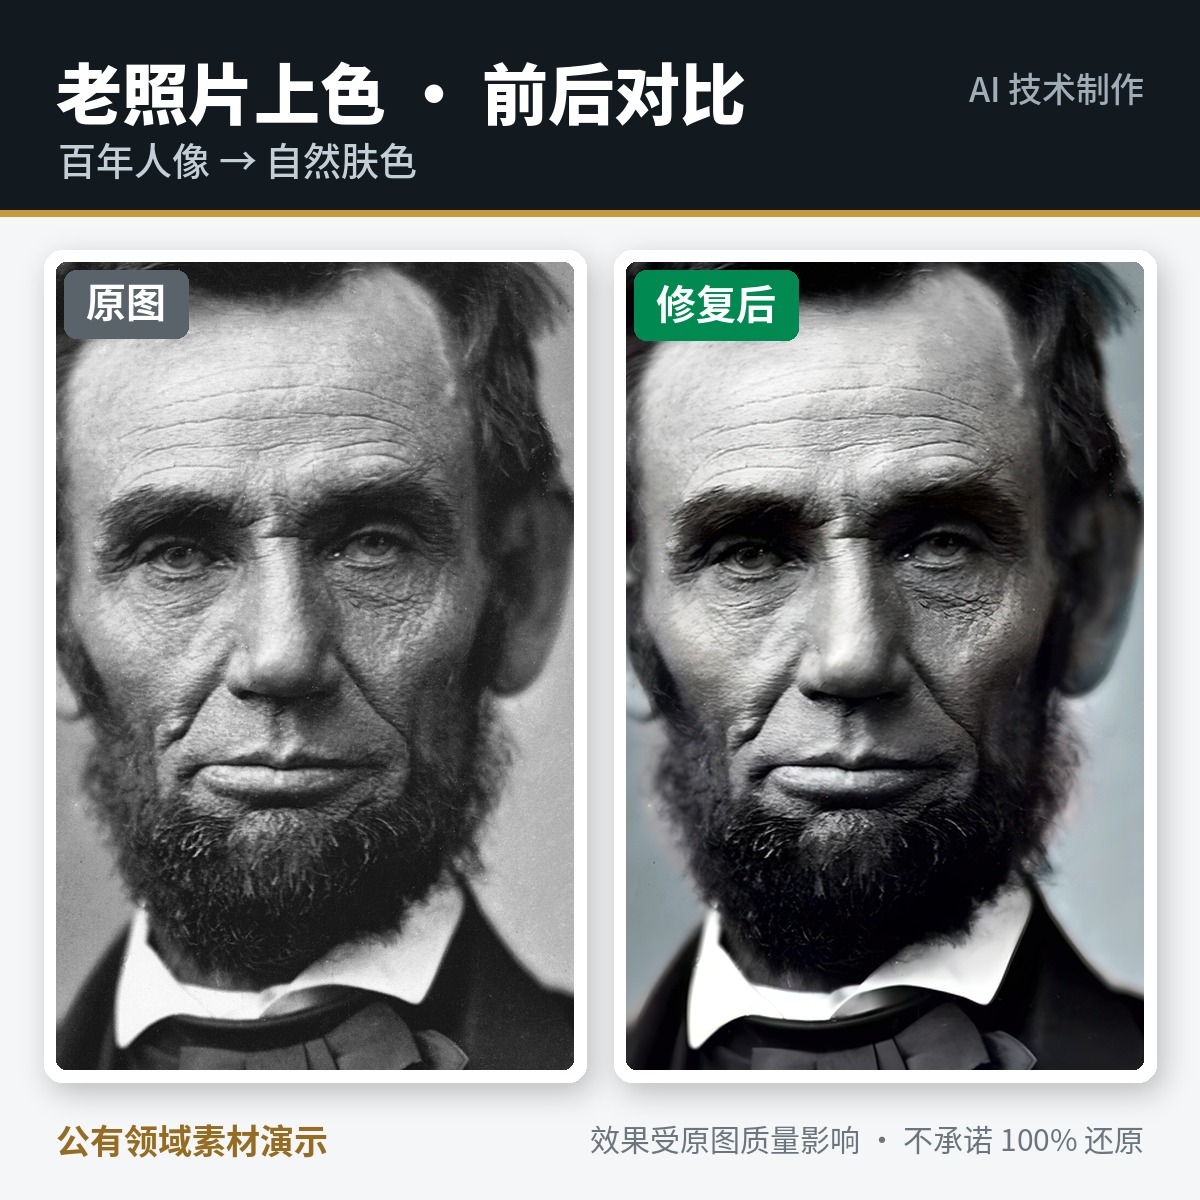
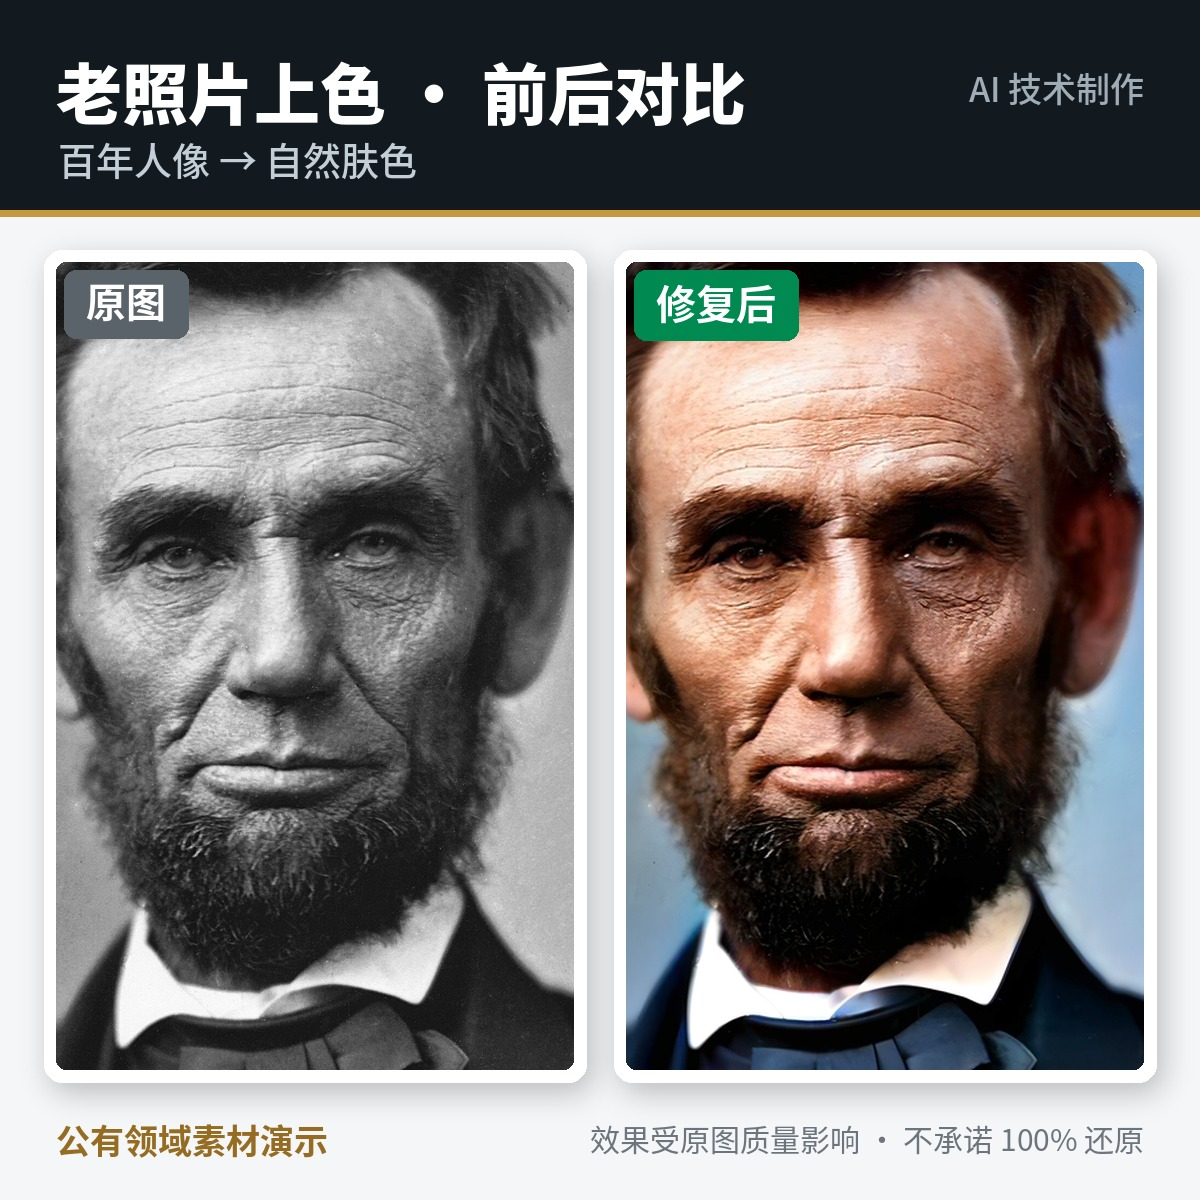
feat(photo): #224/#225 上色改用 DDColor 链路 + 重出上架物料 4 件
- retouch.py: colorize 新增 --colorizer ddcolor（DDColor-L 出色 + chroma_transfer 保 work 亮度），消除 SDXL .80 手臂/衣物蓝块串色
- #224 重出：main-01/ba-01/service-01 上色用 DDColor 干净链路；ba-04 换真实老照片(WW1 肖像 PD)破损修复(remove_damage)
- marketing.py: ba-04 → hist03_burnley_repair；service 上色面板 → hist02_lincoln_colorize
- 重出 marketing/ai-photo-上架物料-v1/ 10 件 + README/manifest(v2)

diff --git a/inference/photo/retouch.py b/inference/photo/retouch.py
@@ -15,6 +15,7 @@
 
 参数：
     --mode repair|upscale|colorize|product   （manifest 模式下为默认值）
+    --colorizer sdxl|ddcolor   colorize 出色引擎（默认 sdxl；ddcolor=#225 验证首选专用上色模型，仅 colorize 生效）
     --strength   img2img 去噪强度（<=0.9；未给则用 mode 预设：repair .25 / colorize .80 / product .35）
                  ⚠ #225 实测 colorize .80 易致手臂/衣物蓝块串色，建议 .35–.45（见 docs/photo-colorize-offset-225.md）
     --seed       随机种子（复现用）
@@ -28,6 +29,7 @@ from __future__ import annotations
 import argparse
 import hashlib
 import json
+import os
 import sys
 import time
 from pathlib import Path
@@ -397,6 +399,45 @@ def run_diffusion(pipe, images: list[Image.Image], mode: str, strength: float,
     return out, round(dt, 2)
 
 
+# ---- DDColor 专用上色模型（#225 验证结论：老照片上色首选）----
+DDCOLOR_REPO = os.environ.get("DDCOLOR_REPO", "/mnt/data/ai_workspace/DDColor")
+DDCOLOR_CKPT = os.environ.get("DDCOLOR_CKPT",
+                              "/mnt/data/ai_workspace/models/ddcolor/ddcolor_modelscope.pt")
+_ddcolor_cache = None
+
+
+def load_ddcolor(input_size: int = 512):
+    """惰性加载 DDColor-L（ImageNet 预训练）；权重/仓库路径见 DDCOLOR_CKPT/DDCOLOR_REPO。"""
+    global _ddcolor_cache
+    if _ddcolor_cache is not None:
+        return _ddcolor_cache
+    import torch
+    if DDCOLOR_REPO not in sys.path:
+        sys.path.insert(0, DDCOLOR_REPO)
+    from ddcolor import DDColor, ColorizationPipeline, build_ddcolor_model  # noqa: E402
+    dev = torch.device("cuda" if torch.cuda.is_available() else "cpu")
+    t0 = time.time()
+    model = build_ddcolor_model(DDColor, model_path=DDCOLOR_CKPT, input_size=input_size,
+                                model_size="large", device=dev)
+    _ddcolor_cache = ColorizationPipeline(model, input_size=input_size, device=dev)
+    print(f"[ddcolor] loaded in {time.time() - t0:.1f}s", flush=True)
+    return _ddcolor_cache
+
+
+def run_ddcolor(pipe, images: list[Image.Image]) -> tuple[list[Image.Image], float]:
+    """DDColor 逐张出色（自带亮度）；后续由 chroma_transfer 只取色度、保住 work 亮度。"""
+    import cv2
+    t0 = time.time()
+    outs = []
+    for im in images:
+        bgr = cv2.cvtColor(np.asarray(im.convert("RGB")), cv2.COLOR_RGB2BGR)
+        out = pipe.process(bgr)
+        outs.append(Image.fromarray(cv2.cvtColor(out, cv2.COLOR_BGR2RGB)))
+    dt = time.time() - t0
+    print(f"[ddcolor] {len(images)} img colorized {dt:.1f}s", flush=True)
+    return outs, round(dt, 2)
+
+
 # -------------------------------------------------------------------- compare
 def _font(path: str, size: int) -> ImageFont.FreeTypeFont:
     try:
@@ -477,6 +518,8 @@ def main():
     ap.add_argument("--manifest", help="cases.json：逐案例 input/mode/strength/gt")
     ap.add_argument("--output", required=True, help="输出目录（产出 <case>/{before,after,compare,meta}）")
     ap.add_argument("--mode", default="repair", choices=["repair", "upscale", "colorize", "product"])
+    ap.add_argument("--colorizer", default="sdxl", choices=["sdxl", "ddcolor"],
+                    help="colorize 出色引擎（默认 sdxl；ddcolor=#225 验证首选的专用上色模型，仅 colorize 模式生效）")
     ap.add_argument("--strength", type=float, default=None, help="img2img 去噪强度（默认按 mode）")
     ap.add_argument("--seed", type=int, default=42)
     ap.add_argument("--batch", type=int, default=1, help="同 mode 下每次送 SDXL 的图片数")
@@ -561,6 +604,7 @@ def main():
 
     # ---------- Phase B: SDXL 修复/上色（按 mode 分批） ----------
     pipe = None
+    ddpipe = None
     prepared = [m for m in metas if m["status"] == "prepared" and m["mode"] != "upscale"]
     idx = 0
     while idx < len(prepared):
@@ -577,12 +621,18 @@ def main():
             j += 1
         idx = j
         try:
-            if pipe is None:
-                pipe = load_sdxl_img2img()
-            t0 = time.time()
-            outs, dt = run_diffusion(pipe, [m["_work"] for m in grp], grp[0]["mode"],
-                                     grp[0]["strength"], grp[0]["steps"], grp[0]["seed"],
-                                     grp[0]["guidance"], grp[0].get("prompt"), grp[0].get("negative"))
+            if grp[0]["mode"] == "colorize" and args.colorizer == "ddcolor":
+                if ddpipe is None:
+                    ddpipe = load_ddcolor()
+                t0 = time.time()
+                outs, dt = run_ddcolor(ddpipe, [m["_work"] for m in grp])
+            else:
+                if pipe is None:
+                    pipe = load_sdxl_img2img()
+                t0 = time.time()
+                outs, dt = run_diffusion(pipe, [m["_work"] for m in grp], grp[0]["mode"],
+                                         grp[0]["strength"], grp[0]["steps"], grp[0]["seed"],
+                                         grp[0]["guidance"], grp[0].get("prompt"), grp[0].get("negative"))
             for m, o in zip(grp, outs):
                 m["_out"] = o
                 m["timings"]["diffusion"] = round(dt / len(grp), 2)

diff --git a/inference/photo/marketing.py b/inference/photo/marketing.py
@@ -230,7 +230,7 @@ def gen_service(src: Path, out: Path) -> None:
     canvas, d = page("四项服务 · 一站搞定", "修复 / 上色 / 高清增强 / 电商主图")
     items = [
         ("老照片修复", "去噪 · 去划痕 · 恢复清晰", "hist01_migrant_mother_repair", (90, 98, 106)),
-        ("黑白照上色", "黑白 → 自然彩色", "hist01_migrant_mother_colorize", GREEN),
+        ("黑白照上色", "黑白 → 自然彩色", "hist02_lincoln_colorize", GREEN),
         ("高清增强", "小图放大 · 更清晰", "hist01_migrant_mother_upscale", (34, 96, 160)),
         ("电商主图", "去背 · 纯白底 · 自然阴影", "prod01_potpourri_jar", (150, 92, 30)),
     ]
@@ -380,8 +380,8 @@ BA_GROUPS = [
      "hist01_migrant_mother_repair", 0.30, 0.62),
     ("ai-photo-ba-03-1200x1200.jpg", "老照片上色 · 前后对比", "百年人像 → 自然肤色",
      "hist02_lincoln_colorize", 0.34, 0.60),
-    ("ai-photo-ba-04-1200x1200.jpg", "破损修复 · 前后对比", "降质 / 减损图像 → 清晰还原",
-     "pair01_harvesters_ai", 0.5, 1.0),
+    ("ai-photo-ba-04-1200x1200.jpg", "破损修复 · 前后对比", "破损老照片 → 去划痕白斑 · 清晰还原",
+     "hist03_burnley_repair", 0.42, 0.9),
     ("ai-photo-ba-05-1200x1200.jpg", "高清增强 · 前后对比", "低清小图 → 高清细节",
      "hist01_migrant_mother_upscale", 0.30, 0.72),
 ]

diff --git a/marketing/ai-photo-上架物料-v1/README.md b/marketing/ai-photo-上架物料-v1/README.md
@@ -28,10 +28,10 @@
 
 | 图 | 产线 case | 模式 | 素材（公有领域 / CC0） |
 |---|---|---|---|
-| main / ba-01 | `hist01_migrant_mother_colorize` | colorize | Dorothea Lange《Migrant Mother》1936 · **PD** |
+| main / ba-01 | `hist01_migrant_mother_colorize` | colorize (DDColor) | Dorothea Lange《Migrant Mother》1936 · **PD** |
 | ba-02 | `hist01_migrant_mother_repair` | repair | 同上 · **PD** |
-| ba-03 | `hist02_lincoln_colorize` | colorize | Lincoln 1863 肖像 · **PD** |
-| ba-04 | `pair01_harvesters_ai` | repair | Pieter Bruegel《The Harvesters》· **PD** |
+| ba-03 | `hist02_lincoln_colorize` | colorize (DDColor) | Lincoln 1863 肖像 · **PD** |
+| ba-04 | `hist03_burnley_repair` | repair (damage-fix) | Private John Burnley WW1 肖像 · **PD** |
 | ba-05 | `hist01_migrant_mother_upscale` | upscale | Dorothea Lange 1936（**干净降采样低清输入 → 超分**）· **PD** |
 
 - 所有 A1/A2 图内已标 **「公有领域素材演示」** + **「AI 技术制作」**。
@@ -58,9 +58,8 @@ python3 inference/photo/marketing.py \
 
 ## 五、边界
 
-- 渠道未开通不影响产图（本批仅为素材）。
-- 不承诺 100% 还原；BA-01 保留真实产线色彩瑕疵（儿童发丝/衣物局部色偏），以「效果受原图影响」如实呈现。
-- ba-04 为 PD **画作**演示（非老照片）；ba-01/02/03/05 均为老照片。运营可按需取用。
-- `hist01_migrant_mother_upscale` 为本次新增的**真实产线** upscale 产出（干净降采样输入，无划痕，展示纯超分效果）。
+- 不承诺 100% 还原（图内注明）。
+- **上色引擎（#225）**：main/ba-01/ba-03 与 service 上色面板改用 **DDColor-L** 出色 + `chroma_transfer` 保原图亮度/质感，消除旧链路（SDXL strength=0.80）的手臂/衣物蓝块串色；详见 `docs/photo-colorize-offset-225.md`。
+- **ba-04**：改用**真实老照片**（WW1 肖像，PD）演示破损修复（去划痕/白斑 + 修复），替换原油画对拍图。
 
-— sage（ai_engineer）· v1 · 2026-10-02
+— sage（ai_engineer）· v2 · 2026-10-02（#224 重出 4 件：main-01 / ba-01 / service-01 / ba-04）

diff --git a/CHANGELOG.md b/CHANGELOG.md
@@ -8,6 +8,8 @@ description: record your changes
 
 ### Changes
 
+- 上色引擎（#225 落地）：`retouch.py` colorize 新增 `--colorizer ddcolor`——**DDColor-L 出色 + `chroma_transfer` 保 work 亮度**（消除 SDXL strength=0.80 的手臂/衣物蓝块串色；出色 ~0.3s/张，权重 `models/ddcolor/ddcolor_modelscope.pt`、仓库 `DDColor/`，可用 `DDCOLOR_REPO/DDCOLOR_CKPT` 覆盖）；默认仍 `--colorizer sdxl`
+- 上架物料（#224 重出 4 件）：main-01/ba-01/service-01 上色改用 DDColor 干净链路重出；ba-04 由「油画对拍」改为**真实老照片**（WW1 肖像 PD）破损修复（`remove_damage`）；`marketing.py` ba-04 与 service 上色面板 source case 同步更新；`marketing/ai-photo-上架物料-v1/` 10 件 + README/manifest 重出（v2）
 - 修图/上色调研（#225）：老照片上色「颜色覆盖位置偏移」四路验证——新增 `docs/photo-colorize-offset-225.md`（A SDXL调参 / B 色度层配准 / C 掩膜约束 / D DDColor 专用模型 · 同素材对拍 + 对比表 + 推荐）与实验脚本 `inference/photo/tools/cmp_colorize_offset.py`（A/B/C）、`inference/photo/tools/run_ddcolor.py`（D）。**结论：D(DDColor)最优**（皮肤蓝晕 4.5%→0、色度最足、结构对齐最好）；SDXL 兜底 strength 0.80→0.45 可清蓝块（色彩变淡）。修正 `retouch.py` docstring 与预设长期不一致（原写「≤0.6 / colorize .45 / steps 30」，实际 .80 / steps 80）
 - 修图（#224 后置项）：repair 模式新增去划痕/去白斑/去霉点（`remove_damage()` + `--damage-fix`），形态学 top-hat/black-hat 检测 + Telea inpaint
 
